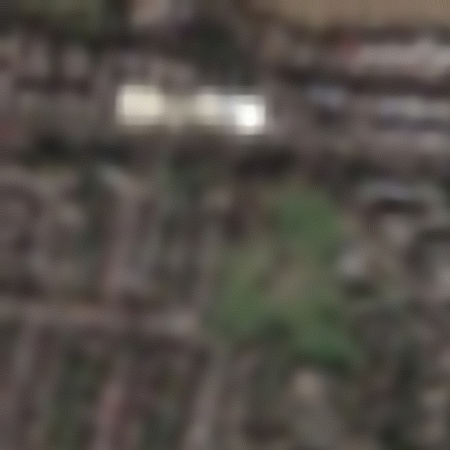
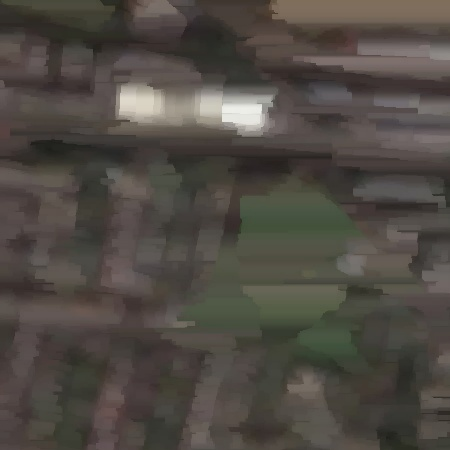
final poush

diff --git a/src/module_name/outline.py b/src/module_name/outline.py
@@ -1,3 +1,37 @@
 import cv2
 import numpy as np
 
+
+def darken_with_outline(upscaled_image_path, outline_image_path, darkening_factor=0.5):
+    # Load the images
+    upscaled_image = cv2.imread(upscaled_image_path)
+    outline_image = cv2.imread(outline_image_path)
+
+    # Check if the images have the same size
+    if upscaled_image.shape != outline_image.shape:
+        raise ValueError("The upscaled image and outline image must have the same dimensions.")
+
+    # Convert the outline image to a mask of red pixels (255, 0, 0)
+    non_white_pixels_mask = np.any(outline_image != [255, 255, 255], axis=-1)  # Mask where pixels are not white
+    # Darken the pixels in the upscaled image that correspond to the red pixels in the outline
+    darkened_image = upscaled_image.copy()
+
+    # Apply darkening: reduce the pixel intensity by the factor (can adjust based on how dark you want)
+    darkened_image[non_white_pixels_mask] = darkened_image[non_white_pixels_mask] * (1 - darkening_factor)
+
+    # Clip the values to stay within the valid range (0-255)
+    darkened_image = np.clip(darkened_image, 0, 255).astype(np.uint8)
+
+    # Save the final image
+    cv2.imwrite('images/darkened_image.jpg', darkened_image)
+
+    # Display the final result
+    cv2.imshow('Darkened Image', darkened_image)
+    cv2.waitKey(0)
+    cv2.destroyAllWindows()
+
+
+# Usage example:
+upscaled_image_path = 'images/map_enlarged.jpg'
+outline_image_path = 'images/white_image.jpg'
+darken_with_outline(upscaled_image_path, outline_image_path)

diff --git a/src/module_name/improve_acc.py b/src/module_name/improve_acc.py
@@ -33,7 +33,7 @@ def apply_lidar_smoothing(image_path, lidar_path, output_path='images/white_imag
     white_image = np.full((height, width, 3), 255, dtype=np.uint8)
     full_width = image[:, :width]
 
-    for row in range(500):  # Process the first 500 rows
+    for row in range(5000):  # Process the first 500 rows
         print(f"Processing row {row}")
         column = 0
 
@@ -89,7 +89,7 @@ def rotate_image(image_path, output_path, rotation_flag=cv2.ROTATE_90_CLOCKWISE)
     cv2.imwrite(output_path, rotated_image)
 
 
-def remove_jagged_streaks(image, kernel_size=2):
+def remove_jagged_streaks(image, kernel_size=5):
     """
     Apply morphological operations to clean up jagged streaks.
 
@@ -117,11 +117,22 @@ def grab_block(image):
 # Optionally: Display the processed images
 white_image = cv2.imread('images/white_image.jpg')
 
-final_image = remove_jagged_streaks(white_image)
+final_image = white_image
 
-final_image = bilateral_filter_smoothing(final_image)
+final_image = remove_jagged_streaks(final_image)
 
+cv2.imwrite('images/MEOWMEOW.jpg', final_image)
 
+apply_lidar_smoothing('images/MEOWMEOW.jpg', 'images/image_converted.png', output_path='images/white_image.jpg')
+
+# Optionally: Display the processed images
+white_image = cv2.imread('images/white_image.jpg')
+
+final_image = white_image
+
+final_image = remove_jagged_streaks(final_image)
+
+cv2.imwrite('images/MEOWMEOW.jpg', final_image)
 
 cv2.imshow('Smoothed and Rotated Image', grab_block(final_image))
 cv2.waitKey(0)
